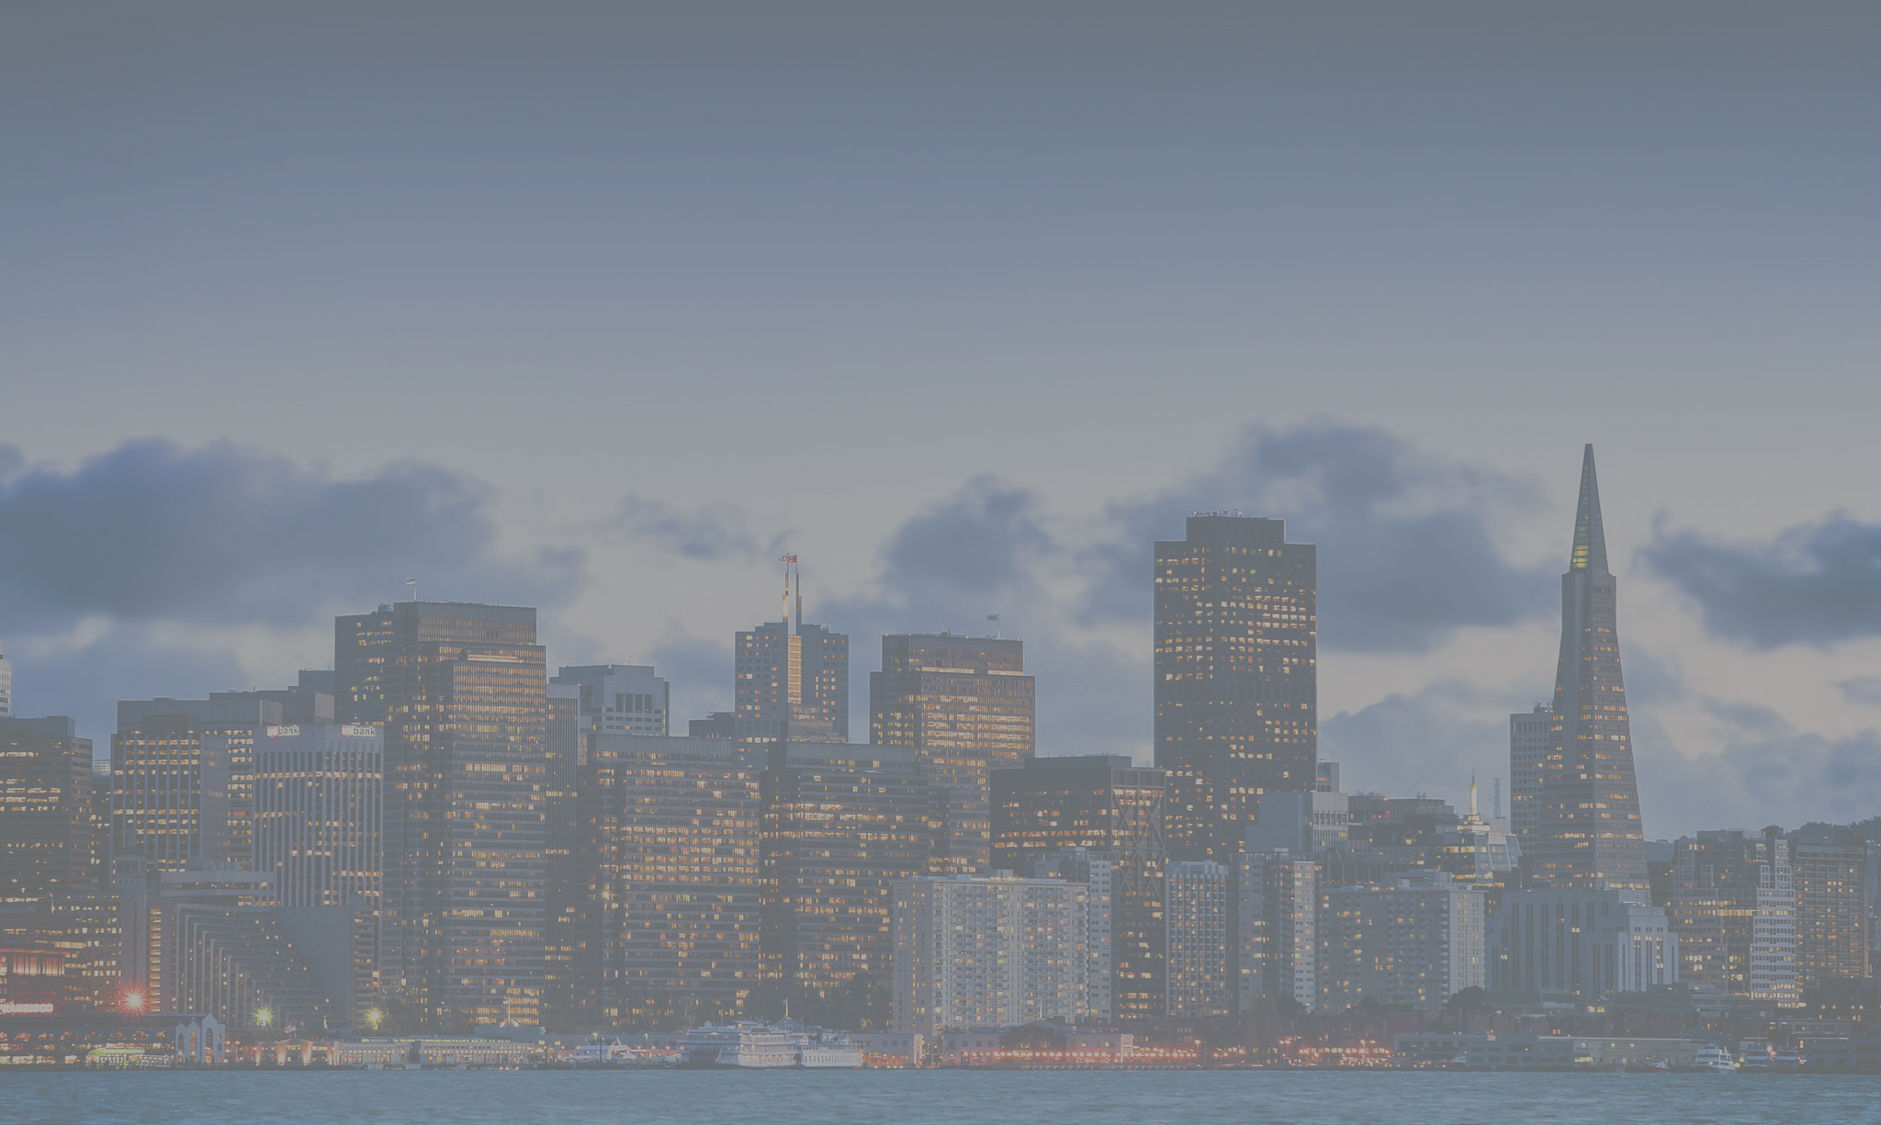
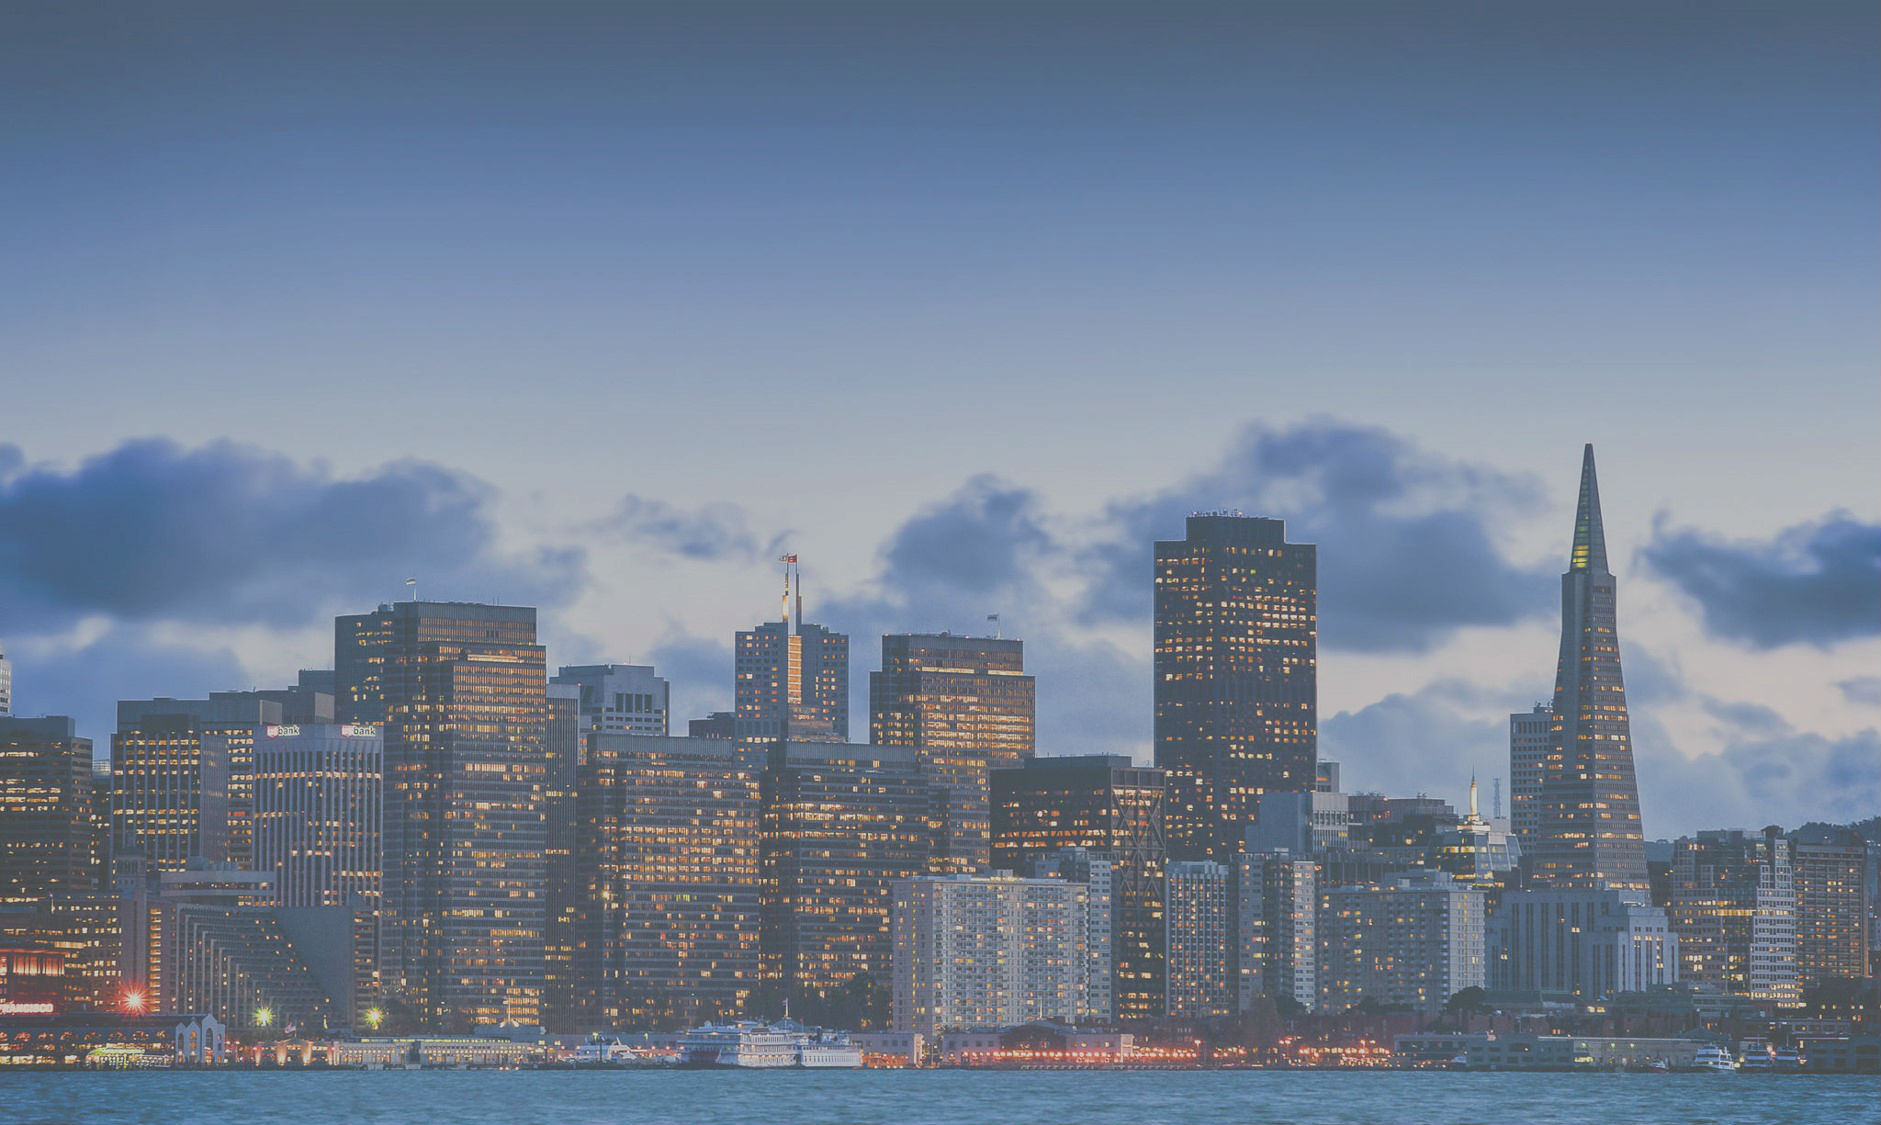
Finished CSS and added enhanced functionality to add to favorites button

diff --git a/static/homepage.css b/static/homepage.css
@@ -2,15 +2,16 @@
 
 #welcome-page {
   background-image: url('img/sf_skyline.jpg');
-  height: 1000px;
-  width: 100%;
   background-attachment: fixed;
+  width: 100%;
+  height: 1000px;
+  background-size: cover;
 }
 
 #welcome-content {
   display: inline-block;
   text-align: center;
-  margin-top: 400px;
+  margin-top: 200px;
   font-family: 'Raleway', sans-serif;
   color: white;
 }
@@ -27,10 +28,11 @@
 /*Slide 2 Tags*/
 
 #search-option {
-  background-image: url('img/sf2.jpg');
-  height: 1000px;
+  background-image: url('img/sf5.jpg');
   width: 100%;
-  background-attachment: fixed;   
+  height: 1000px;
+  background-attachment: fixed;
+  background-size: cover;   
 }
 
 #geo-search {
@@ -71,10 +73,11 @@
 /*Slide 3 Tags*/
 
 #service-search {
-  background-color: #8A8B8F;
-  height: 1000px;
+  background-color: #51708E;
+  height: 1200px;
   width: 100%;
   background-attachment: fixed;
+  padding-top: 100px
 }
 
 .img-label {
@@ -114,7 +117,7 @@
   margin-right: 30px;
   margin-top: 30px;
   text-align: center;
-  background-color: #ADB1BD;
+  background-color: #53789E;
   float: left;
 }
 
@@ -156,4 +159,8 @@
 
 #results label {
   color: black;
+}
+
+#nav-bar-home {
+  font-family: 'Raleway', sans-serif;
 }

diff --git a/static/homepage.js b/static/homepage.js
@@ -31,7 +31,7 @@ function scrollWindow(evt) {
   evt.preventDefault();
   $('body, html').animate({
     scrollTop: $($(this).attr('href')).offset().top
-  }, 1000);
+  }, 800);
 }
 
 var moveItems = function() {
@@ -39,7 +39,7 @@ var moveItems = function() {
   $('.img-container').remove();
   $('#geo-search').appendTo('#new-search-bar');
   $('.geo-go').remove();
-  $('#service-search').appendTo('#new-search-bar').css('background-color', 'white');
+  $('#service-search').appendTo('#new-search-bar').css('background-color', 'white').css('padding-top', 0);
   $('.container').css('border-color', 'white').css('width', 300).css('margin-top', 0).css('height', 25).css('padding-top', 0).css('text-align', 'left').css('background-color', 'white')
   $('.img-label').css('margin-left', 30).css('margin-bottom', 2).css('margin-right', 2).css('margin-top', 2)
   $('.checkbox').css('position', 'relative').css('float', 'left')

diff --git a/static/neighborhood.js b/static/neighborhood.js
@@ -23,7 +23,7 @@ function createMap(results) {
     var html = (
       '<div class="window-content">' +
          '<p>' + service_info.name + '</p>' +
-         '<p><b>Url: </b> <a href=' + service_info.url + ' target=_blank>Website</a></p>' +
+         '<p><b>Url: </b> <a href=' + service_info.url + ' target=_blank>Website</a></p><br>' +
          '<p><b>Add to Favorites:</b></p>' +
          '<img src=/static/img/like-1.png class=favorite data-url='+service_info.url+' data-neighborhood="'+results.name+'" id='+service_id+' data-name="'+service_info.name+'" data-lat='+service_info.lat+' data-lng='+service_info.lng+'>' +
       '</div>');

diff --git a/static/user_info.js b/static/user_info.js
@@ -36,7 +36,8 @@ function createSuggestedElement(rec, rec_info, results) {
                             'neighborhood': results.neighborhood_name,
                             'url': rec_info.url, 'lat': rec_info.lat,
                             'lng': rec_info.lng }, function() {
-                              console.log('Success!')
+                              $li.remove()
+                              $('#fav_places').append('<li>'+rec_info.name+'</li>');
                             });
   });
 

diff --git a/static/neighborhood2.js b/static/neighborhood2.js
@@ -5,7 +5,7 @@ function createHomeInfoWindow(neighborhood, service_id, service_info) {
   var $windowhtml = $("<div></div>");
   var $bname = $("<p></p>");
   var $url = $("<a target=_blank>Visit website</a>");
-  var $fav_instructions = $("<p>Add to favorites: </p>");
+  var $fav_instructions = $("<br><p>Add to favorites: </p>");
   var $img = $("<img src=/static/img/like-1.png class=favorite></img>")
   $bname.html(service_info.name);
   $url.attr('href', service_info.url);

diff --git a/templates/base.html b/templates/base.html
@@ -25,7 +25,7 @@
   <body>
     <nav class="navbar navbar-default">
      <div class="container-fluid">  
-         <ul class="nav navbar-nav navbar">
+         <ul class="nav navbar-nav navbar" id="nav-bar-home">
           <li><a class="navbar-brand" href="/">Home</a></li>
            {% if 'user_id' in session %}
              <li><a href='/logged-out'>Log out</a></li>
